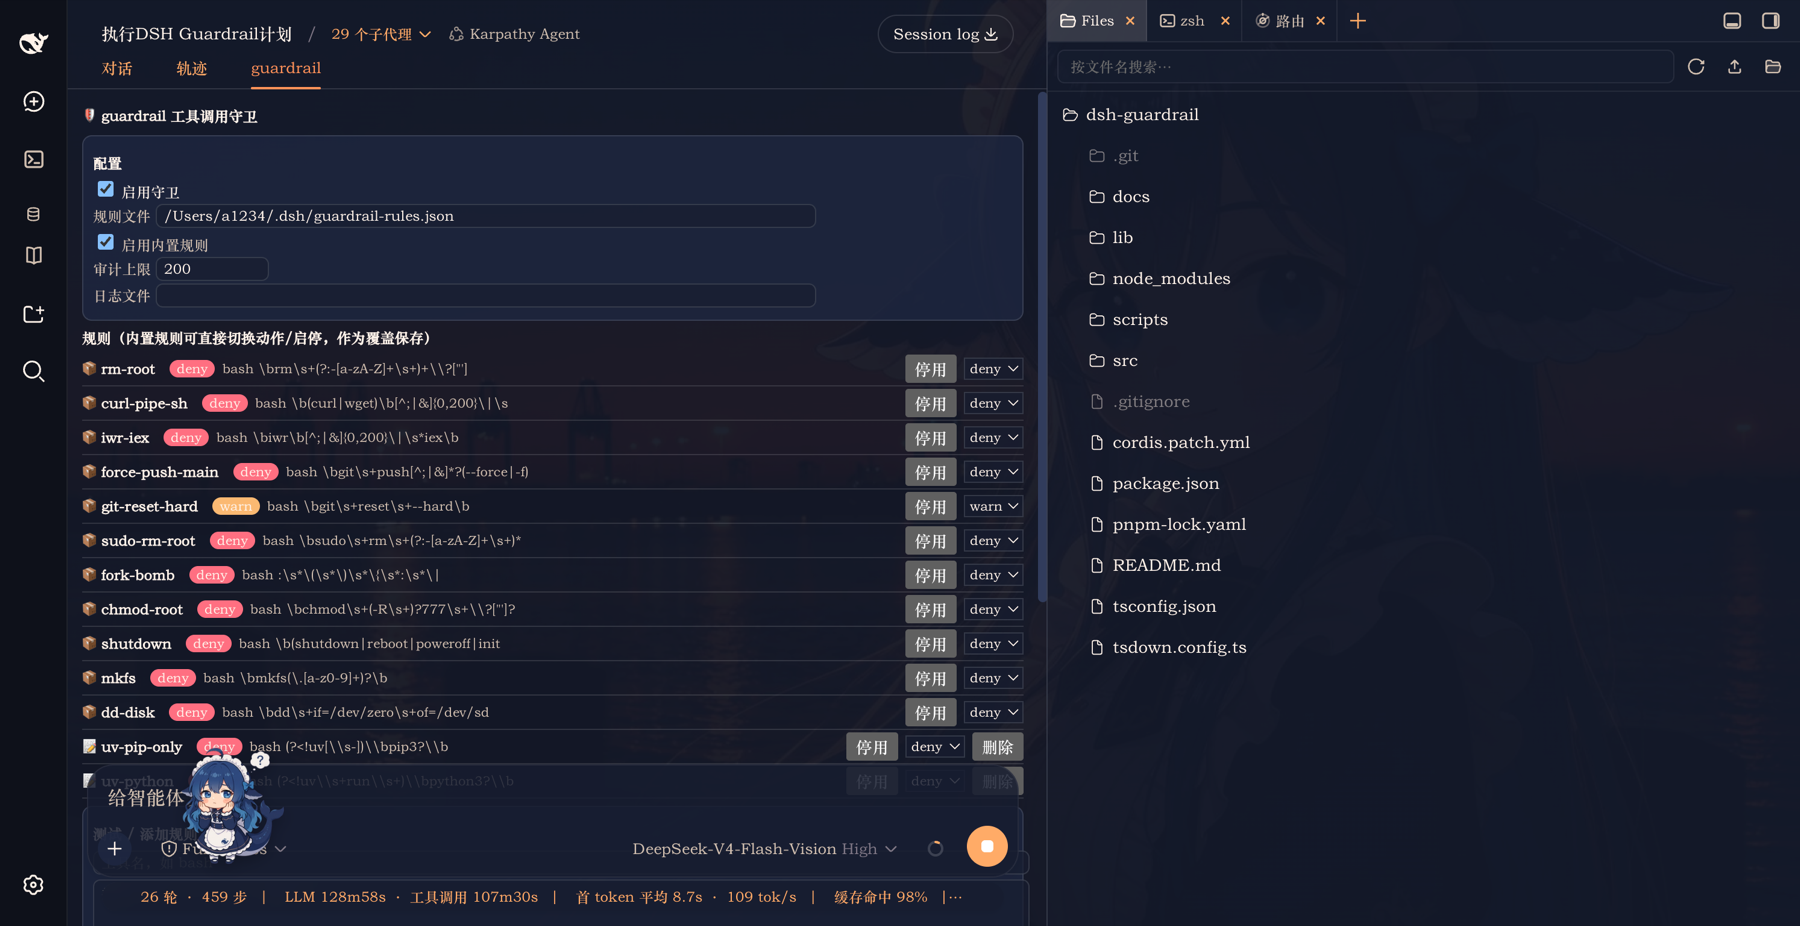
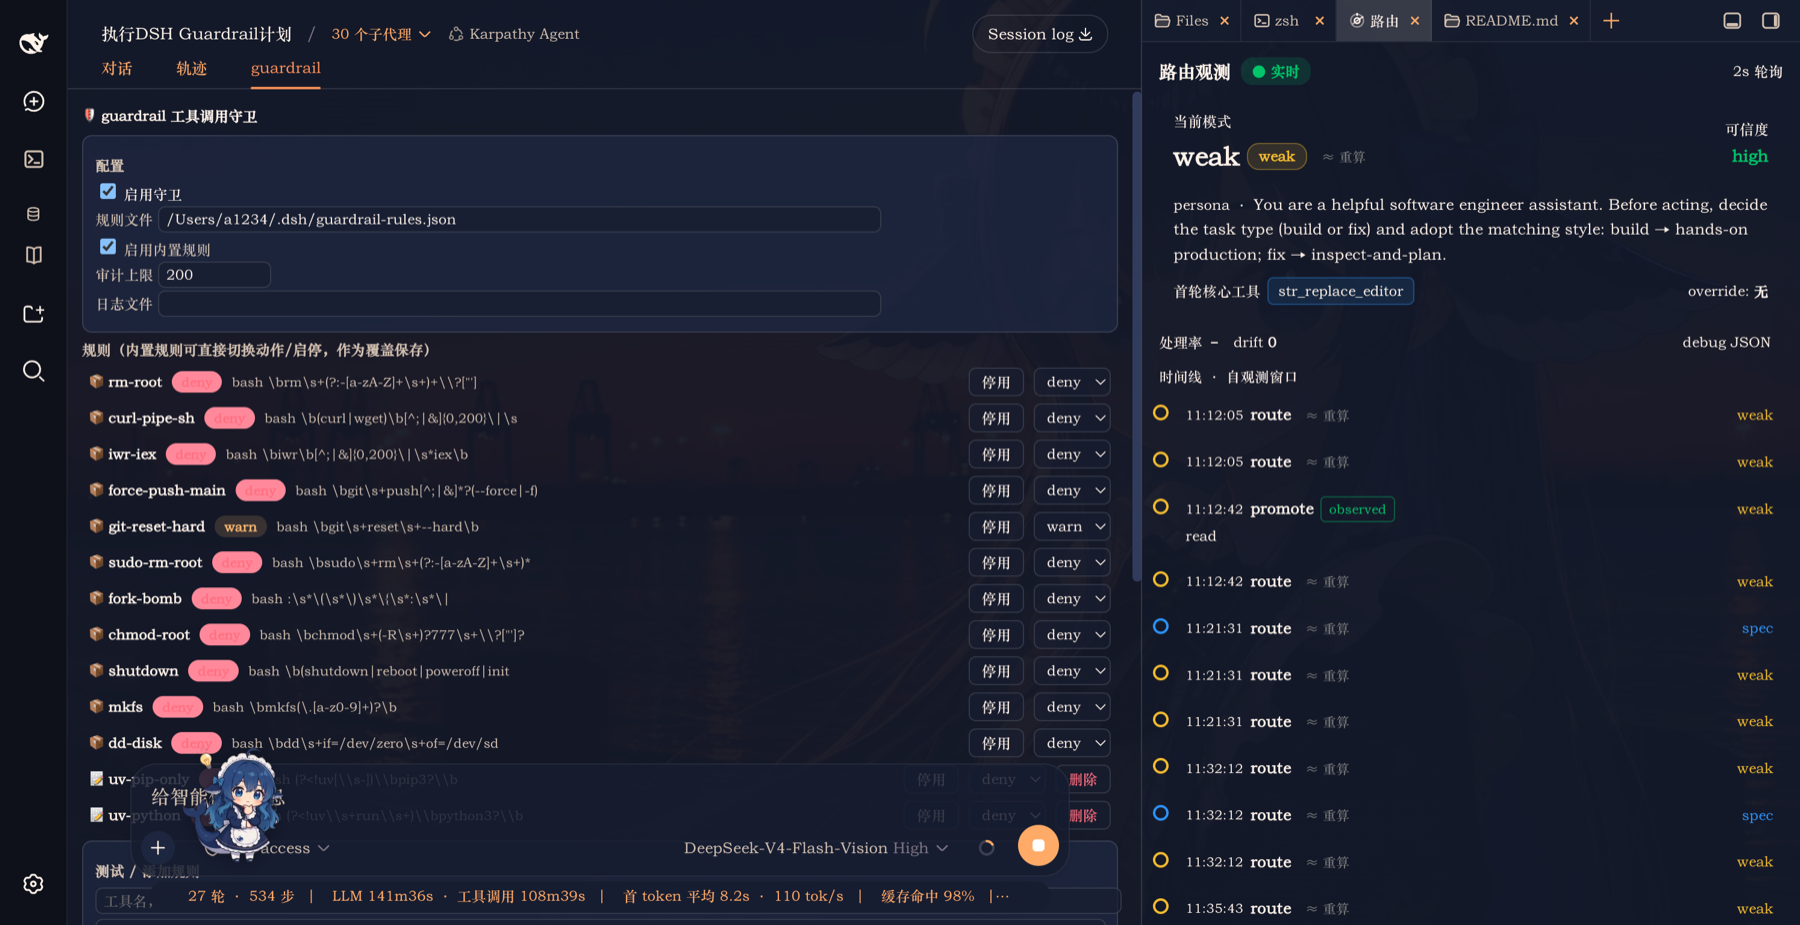
style: restyle guardrail panel using only DSH theme tokens
- Remove forced code font on panel root; inherit app default sans (风格统一)
- Style buttons/config controls with system token classes: primary fill, ghost,
  danger-hover (all from --dsw-alias-*), theme-aware hover/focus states
- Soft pill action badges (state-*-secondary/tertiary bg + primary text) per
  native DSH convention, better contrast than prior solid fill
- Rules rows: rounded, hover bg (--dsw-alias-interactive-bg-hover)
- Zero hardcoded colors — every fill/border/text is a theme token, so panel
  adapts to dark/light automatically
- Update README + refresh docs/images screenshots to the new styling

diff --git a/src/client/index.ts b/src/client/index.ts
@@ -5,6 +5,9 @@
  * 追加式）——在会话视图环里提供 "guardrail" 标签页，渲染规则管理 UI。
  * 不 import 真实 slot 包（宿主在运行时经 module loader 提供 slots 服务与 react），
  * 因此这里用 `ctx.slots` 与 React 外部依赖，构建走 tsdown（browser bundle）。
+ *
+ * 样式约定：全部视觉只使用 DSH 系统主题 token（`--dsw-alias-*` / `--ds-*`），
+ * 不引入自定义硬编码颜色/字体，随主题（亮/暗）自动切换，与整站统一。
  */
 import React from 'react'
 
@@ -54,26 +57,89 @@ const DEFAULT_CFG: GuardrailConfig = {
   audit: { maxEntries: 200 },
 }
 
+// 主题相关 CSS：全部取值来自 DSH 系统 token，任何 hover/焦点态随亮暗主题切换。
+// 作用域以 #guardrail-panel 前缀限定，避免污染宿主样式。
+const STYLE = `
+#guardrail-panel {
+  font-size: 12px;
+  color: var(--dsw-alias-label-primary);
+}
+#guardrail-panel button,
+#guardrail-panel input,
+#guardrail-panel select,
+#guardrail-panel textarea {
+  font-family: inherit;
+}
+#guardrail-panel button {
+  display: inline-flex;
+  align-items: center;
+  gap: 4px;
+  height: 24px;
+  padding: 0 10px;
+  border-radius: 6px;
+  font-size: 12px;
+  font-weight: 500;
+  line-height: 1;
+  border: 1px solid transparent;
+  cursor: pointer;
+  transition: background .12s ease, color .12s ease, border-color .12s ease;
+  color: var(--dsw-alias-label-primary);
+}
+#guardrail-panel button:disabled { opacity: .5; cursor: default; }
+#guardrail-panel button.gr-primary {
+  background: var(--dsw-alias-button-primary-fill);
+  color: var(--dsw-alias-label-primary-foreground);
+}
+#guardrail-panel button.gr-primary:hover:not(:disabled) { background: var(--dsw-alias-button-primary-hover); }
+#guardrail-panel button.gr-ghost {
+  background: var(--dsw-alias-bg-layer-1);
+  border-color: var(--dsw-alias-border-l2);
+}
+#guardrail-panel button.gr-ghost:hover:not(:disabled) { background: var(--dsw-alias-interactive-bg-hover); }
+#guardrail-panel button.gr-danger { color: var(--dsw-alias-state-error-primary); }
+#guardrail-panel button.gr-danger:hover:not(:disabled) { background: var(--dsw-alias-interactive-bg-hover-danger); }
+#guardrail-panel select,
+#guardrail-panel input,
+#guardrail-panel textarea {
+  background: var(--dsw-alias-bg-layer-1);
+  color: var(--dsw-alias-label-primary);
+  border: 1px solid var(--dsw-alias-border-l2);
+  border-radius: 6px;
+  padding: 2px 6px;
+  font-size: 12px;
+}
+#guardrail-panel select:focus,
+#guardrail-panel input:focus,
+#guardrail-panel textarea:focus {
+  border-color: var(--dsw-alias-border-l3);
+  outline: none;
+}
+#guardrail-panel .gr-row:hover { background: var(--dsw-alias-interactive-bg-hover); }
+`
+
 // 复用 DSH 主题 CSS 变量，与整站视觉保持一致（颜色/边框/圆角/字体均取自主题 token）。
 const S = {
-  root: { fontFamily: 'var(--ds-font-family-code)', fontSize: 12, color: 'var(--dsw-alias-label-primary)', padding: 12 },
+  root: { padding: 12 },
   heading: { fontWeight: 700, marginBottom: 8 },
-  sub: { fontWeight: 600, margin: '6px 0 4px', color: 'var(--dsw-alias-label-primary)' },
-  card: { margin: '6px 0', padding: 8, border: '1px solid var(--dsw-alias-border-l2)', borderRadius: 8, background: 'var(--dsw-alias-bg-module-platform)' },
-  row: { display: 'flex', alignItems: 'center', gap: 6, padding: '2px 0', borderBottom: '1px solid var(--dsw-alias-border-l2)' },
+  sub: { fontWeight: 600, margin: '6px 0 4px', color: 'var(--dsw-alias-label-secondary)' },
+  card: { margin: '6px 0', padding: 10, border: '1px solid var(--dsw-alias-border-l2)', borderRadius: 8, background: 'var(--dsw-alias-bg-module-platform)' },
+  row: { display: 'flex', alignItems: 'center', gap: 8, padding: '3px 6px', borderRadius: 6 },
   rowDisabled: { textDecoration: 'line-through', opacity: 0.5, color: 'var(--dsw-alias-label-tertiary)' },
   muted: { color: 'var(--dsw-alias-label-secondary)', fontSize: 11 },
+  code: { fontFamily: 'var(--ds-font-family-code)' },
   error: { color: 'var(--dsw-alias-state-error-primary)', marginBottom: 6 },
   label: { display: 'block', margin: '2px 0', color: 'var(--dsw-alias-label-secondary)' },
-  input: { background: 'var(--dsw-alias-bg-layer-1)', color: 'var(--dsw-alias-label-primary)', border: '1px solid var(--dsw-alias-border-l2)', borderRadius: 6, padding: '1px 6px', fontSize: 12 },
-  result: { whiteSpace: 'pre-wrap', marginTop: 4, color: 'var(--dsw-alias-label-primary)' },
+  result: { whiteSpace: 'pre-wrap', marginTop: 6, color: 'var(--dsw-alias-label-primary)' },
   audit: { whiteSpace: 'nowrap', overflow: 'hidden', textOverflow: 'ellipsis', color: 'var(--dsw-alias-label-tertiary)', fontSize: 11 },
 } satisfies Record<string, React.CSSProperties>
 
+// 原生组件做法：state 类徽章用「低饱和底 + 强调色文字」（见 dsh-client-ui-trajectory 的
+// tertiary/color-mix 组合），避免实心底与文字撞色，且亮暗主题自适应。
 const badge = (kind: 'deny' | 'warn'): React.CSSProperties => ({
-  display: 'inline-block', padding: '0 6px', borderRadius: 8, fontSize: 11,
-  background: kind === 'deny' ? 'var(--dsw-alias-state-error-primary)' : 'var(--dsw-alias-state-warn-label)',
-  marginLeft: 6, color: 'var(--dsw-alias-label-primary)',
+  display: 'inline-flex', alignItems: 'center', padding: '0 8px', height: 18, borderRadius: 999,
+  fontSize: 11, fontWeight: 600, flexShrink: 0,
+  background: kind === 'deny' ? 'var(--dsw-alias-state-error-secondary)' : 'var(--dsw-alias-state-warn-tertiary)',
+  color: kind === 'deny' ? 'var(--dsw-alias-state-error-primary)' : 'var(--dsw-alias-state-warn-primary)',
 })
 
 async function apiGet<T>(path: string): Promise<T> {
@@ -199,25 +265,25 @@ function GuardrailPanel(): React.ReactElement {
   }
 
   const rows: React.ReactElement[] = rules.map((r) =>
-    React.createElement('div', { style: { ...S.row, ...(r.enabled ? {} : S.rowDisabled) }, key: r.id },
+    React.createElement('div', { style: { ...S.row, ...(r.enabled ? {} : S.rowDisabled) }, className: 'gr-row', key: r.id },
       React.createElement('span', { style: { fontWeight: 600, ...(r.enabled ? {} : { textDecoration: 'line-through' }) } }, `${r.builtin ? '📦' : '📝'} ${r.id}`),
       React.createElement('span', { style: badge(r.action) }, r.action),
-      React.createElement('span', { style: S.muted },
+      React.createElement('span', { style: { ...S.muted, ...S.code } },
         `${(r.tools?.length ? r.tools.join(',') : '*')}  ${r.pattern.slice(0, 32)}`),
       React.createElement('button', {
+        className: 'gr-ghost',
         style: { marginLeft: 'auto' },
         onClick: () => void (r.builtin ? overrideBuiltin(r.id, { enabled: !r.enabled }) : toggleRule(r.id, r.enabled)),
       }, r.enabled ? '停用' : '启用'),
       React.createElement('select', {
         value: r.action,
         onChange: (e) => void (r.builtin ? overrideBuiltin(r.id, { action: e.target.value as 'deny' | 'warn' }) : setRuleAction(r.id, e.target.value as 'deny' | 'warn')),
-        style: { fontSize: 11, background: 'var(--dsw-alias-bg-layer-1)', color: 'var(--dsw-alias-label-primary)', border: '1px solid var(--dsw-alias-border-l2)' },
       },
         React.createElement('option', { value: 'deny' }, 'deny'),
         React.createElement('option', { value: 'warn' }, 'warn'),
       ),
       !r.builtin
-        ? React.createElement('button', { onClick: () => void removeRule(r.id) }, '删除')
+        ? React.createElement('button', { className: 'gr-ghost gr-danger', onClick: () => void removeRule(r.id) }, '删除')
         : null,
     ),
   )
@@ -227,7 +293,8 @@ function GuardrailPanel(): React.ReactElement {
       `[${new Date(e.ts).toLocaleTimeString()}] ${e.action} ${e.tool} → ${e.ruleId} ${e.reason}`),
   )
 
-  return React.createElement('div', { style: S.root },
+  return React.createElement('div', { style: S.root, id: 'guardrail-panel' },
+    React.createElement('style', { dangerouslySetInnerHTML: { __html: STYLE } }),
     React.createElement('div', { style: S.heading }, '🛡 guardrail 工具调用守卫'),
     error ? React.createElement('div', { style: S.error }, error) : null,
     React.createElement('div', { style: S.card },
@@ -237,16 +304,16 @@ function GuardrailPanel(): React.ReactElement {
         '  启用守卫'),
       React.createElement('label', { style: S.label },
         '规则文件 ',
-        React.createElement('input', { value: cfg.rulesFile, readOnly: true, style: { ...S.input, width: '70%' } })),
+        React.createElement('input', { value: cfg.rulesFile, readOnly: true, style: { width: '70%' } })),
       React.createElement('label', { style: S.label },
         React.createElement('input', { type: 'checkbox', checked: cfg.builtins.enabled, onChange: (e) => void saveConfig({ ...cfg, builtins: { ...cfg.builtins, enabled: e.target.checked } }) }),
         '  启用内置规则'),
       React.createElement('label', { style: S.label },
         ' 审计上限 ',
-        React.createElement('input', { type: 'number', value: cfg.audit.maxEntries, onChange: (e) => void saveConfig({ ...cfg, audit: { ...cfg.audit, maxEntries: Number(e.target.value) || 0 } }), style: { ...S.input, width: 80 } })),
+        React.createElement('input', { type: 'number', value: cfg.audit.maxEntries, onChange: (e) => void saveConfig({ ...cfg, audit: { ...cfg.audit, maxEntries: Number(e.target.value) || 0 } }), style: { width: 80 } })),
       React.createElement('label', { style: S.label },
         ' 日志文件 ',
-        React.createElement('input', { value: cfg.audit.logFile ?? '', onChange: (e) => void saveConfig({ ...cfg, audit: { ...cfg.audit, logFile: e.target.value } }), style: { ...S.input, width: '70%' } })),
+        React.createElement('input', { value: cfg.audit.logFile ?? '', onChange: (e) => void saveConfig({ ...cfg, audit: { ...cfg.audit, logFile: e.target.value } }), style: { width: '70%' } })),
     ),
     React.createElement('div', { style: S.sub }, '规则（内置规则可直接切换动作/启停，作为覆盖保存）'),
     React.createElement('div', null, rows),
@@ -256,27 +323,27 @@ function GuardrailPanel(): React.ReactElement {
         placeholder: '工具名，如 bash',
         value: tool,
         onChange: (e) => setTool(e.target.value),
-        style: { ...S.input, width: '100%', margin: '2px 0' },
+        style: { width: '100%', margin: '2px 0' },
       }),
       React.createElement('textarea', {
         placeholder: '参数 JSON，如 {"command":"rm -rf /"}',
         value: args,
         onChange: (e) => setArgs(e.target.value),
-        style: { ...S.input, width: '100%', height: 48, margin: '2px 0' },
+        style: { width: '100%', height: 48, margin: '2px 0' },
       }),
-      React.createElement('button', { onClick: () => void runTest() }, '试跑'),
+      React.createElement('button', { className: 'gr-primary', onClick: () => void runTest() }, '试跑'),
       React.createElement('div', { style: S.result }, result),
       React.createElement('div', { style: { marginTop: 10, borderTop: '1px solid var(--dsw-alias-border-l2)', paddingTop: 8 } },
         React.createElement('div', { style: S.sub }, '添加规则'),
-        React.createElement('input', { placeholder: 'id（必填）', value: newId, onChange: (e) => setNewId(e.target.value), style: { ...S.input, width: '100%', margin: '2px 0' } }),
-        React.createElement('input', { placeholder: '正则 pattern（必填）', value: newPattern, onChange: (e) => setNewPattern(e.target.value), style: { ...S.input, width: '100%', margin: '2px 0' } }),
-        React.createElement('select', { value: newAction, onChange: (e) => setNewAction(e.target.value as 'deny' | 'warn'), style: { ...S.input, margin: '2px 0' } },
+        React.createElement('input', { placeholder: 'id（必填）', value: newId, onChange: (e) => setNewId(e.target.value), style: { width: '100%', margin: '2px 0' } }),
+        React.createElement('input', { placeholder: '正则 pattern（必填）', value: newPattern, onChange: (e) => setNewPattern(e.target.value), style: { width: '100%', margin: '2px 0' } }),
+        React.createElement('select', { value: newAction, onChange: (e) => setNewAction(e.target.value as 'deny' | 'warn'), style: { width: '100%', margin: '2px 0' } },
           React.createElement('option', { value: 'deny' }, 'deny'),
           React.createElement('option', { value: 'warn' }, 'warn')),
-        React.createElement('input', { placeholder: 'reason（支持 {tool}/{pattern}）', value: newReason, onChange: (e) => setNewReason(e.target.value), style: { ...S.input, width: '100%', margin: '2px 0' } }),
-        React.createElement('input', { placeholder: 'tools，逗号分隔（空=全部）', value: newTools, onChange: (e) => setNewTools(e.target.value), style: { ...S.input, width: '100%', margin: '2px 0' } }),
-        React.createElement('input', { placeholder: 'field（可选，如 command）', value: newField, onChange: (e) => setNewField(e.target.value), style: { ...S.input, width: '100%', margin: '2px 0' } }),
-        React.createElement('button', { onClick: () => void addRule() }, '添加规则'),
+        React.createElement('input', { placeholder: 'reason（支持 {tool}/{pattern}）', value: newReason, onChange: (e) => setNewReason(e.target.value), style: { width: '100%', margin: '2px 0' } }),
+        React.createElement('input', { placeholder: 'tools，逗号分隔（空=全部）', value: newTools, onChange: (e) => setNewTools(e.target.value), style: { width: '100%', margin: '2px 0' } }),
+        React.createElement('input', { placeholder: 'field（可选，如 command）', value: newField, onChange: (e) => setNewField(e.target.value), style: { width: '100%', margin: '2px 0' } }),
+        React.createElement('button', { className: 'gr-primary', onClick: () => void addRule() }, '添加规则'),
       ),
     ),
     React.createElement('div', { style: S.sub }, '审计（最近 30 条）'),

diff --git a/README.md b/README.md
@@ -14,6 +14,7 @@
 - 审计：内存环形缓冲（默认 200）+ 可选文件日志
 - 匹配/加载异常一律放行（fail-open），不阻断正常流程
 - 正则支持 lookbehind（需 Node/浏览器 V8），可写「必须 uv pip」这类约束规则
+- 面板样式**只使用 DSH 系统主题 token（`--dsw-alias-*` / `--ds-*`）**，无自定义硬编码颜色；随亮/暗主题自动切换，与整站统一
 
 ## 安装
 
